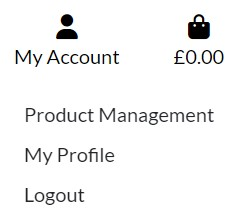
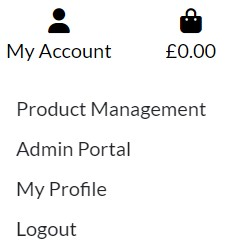
Finished the features section in the readme

diff --git a/README.md b/README.md
@@ -35,9 +35,10 @@ As we embark on this exciting journey, let's explore how our platform leverages 
     * [Account](#account)
     * [Bag](#bag)
     * [Checkout](#checkout)
-    * []()
-    * []()
+    * [Admin](#admin)
+    * [Other](#other)
     * [Future Features](#future-features)
+* [Technology Used](#technology-used)
 * [Testing](#testing)
     * [Manual Testing](#manual-testing)
     * [Future Testing](#future-testing)
@@ -625,6 +626,85 @@ Multiple apps and classes/models were created for the project, each one supporti
 
 ## Admin
 
+* If the admin is logged in - they will be able to directly go to the admin portal via the options on the "My Account"
+
+    ![Screenshot of account admin](./readme_assets/img/account-admin.jpg)<br>
+    *Screenshot of account admin*
+
+* Once there they will have a variety of options available to them. Can manually verify email addressesor or delete users that have been created. 
+
+    ![Screenshot of admin options](./readme_assets/img/admin-options.jpg)<br>
+    *Screenshot of admin options*
+
+* The admin can view available categories, along with edit and add new categories.
+
+    <details>
+    <summary>Admin - Category Section</summary>
+
+    ![Screenshot of admin categories](./readme_assets/img/admin-category.jpg)<br>
+    *Screenshot of admin categories*
+
+    ![Screenshot of admin categories - edit](./readme_assets/img/admin-category-edit.jpg)<br>
+    *Screenshot of admin categories - edit*
+
+    ![Screenshot of admin categories - add](./readme_assets/img/admin-category-add.jpg)<br>
+    *Screenshot of admin categories - add*
+
+    </details>
+
+<br> 
+
+* The admin can view available categories, along with edit and add new categories.
+
+    <details>
+    <summary>Admin - Product Section</summary>
+
+    ![Screenshot of admin products](./readme_assets/img/admin-products.jpg)<br>
+    *Screenshot of admin products*
+
+    ![Screenshot of admin products - edit](./readme_assets/img/admin-products-edit.jpg)<br>
+    *Screenshot of admin products - edit*
+
+    ![Screenshot of admin products - add](./readme_assets/img/admin-products-add.jpg)<br>
+    *Screenshot of admin products - add*
+
+    </details>
+
+<br> 
+
+* Both sections have an option to go into their corresponding history, to view previous changes. 
+
+    ![Screenshot of admin history](./readme_assets/img/admin-history.jpg)<br>
+    *Screenshot of admin history*
+
+<br>
+
+## Other
+
+* Throughout the website there a custom messages to the site user of various events. To let them know of the even that has just happened. 
+
+    ![Screenshot of toast-success](./readme_assets/img/toast-success.jpg) ![Screenshot of toast-error](./readme_assets/img/toast-error.jpg) ![Screenshot of toast-alert](./readme_assets/img/toast-alert.jpg)<br>
+    *Screenshot of website messages*
+
+* There is a custom Error 404 page to not take away from the user experience of the website. 
+
+    ![Screenshot of error404](./readme_assets/img/error404.jpg)<br>
+    *Screenshot of custom error404 page*
+
+<br>
+
+## Future Features
+
+* A community related page where signed in users can create questions or give feedback on certain training splits etc. 
+
+* The ability to leave comments on products and ratings
+
+* Add Social sign-in options (Google, GitHub, Facebook)
+
+* Discout code feature / Support an Affiliate codes
+
 [Back to top &uarr;](#dreambuild-fitness)
 
 ---
+
+# Technology Used
